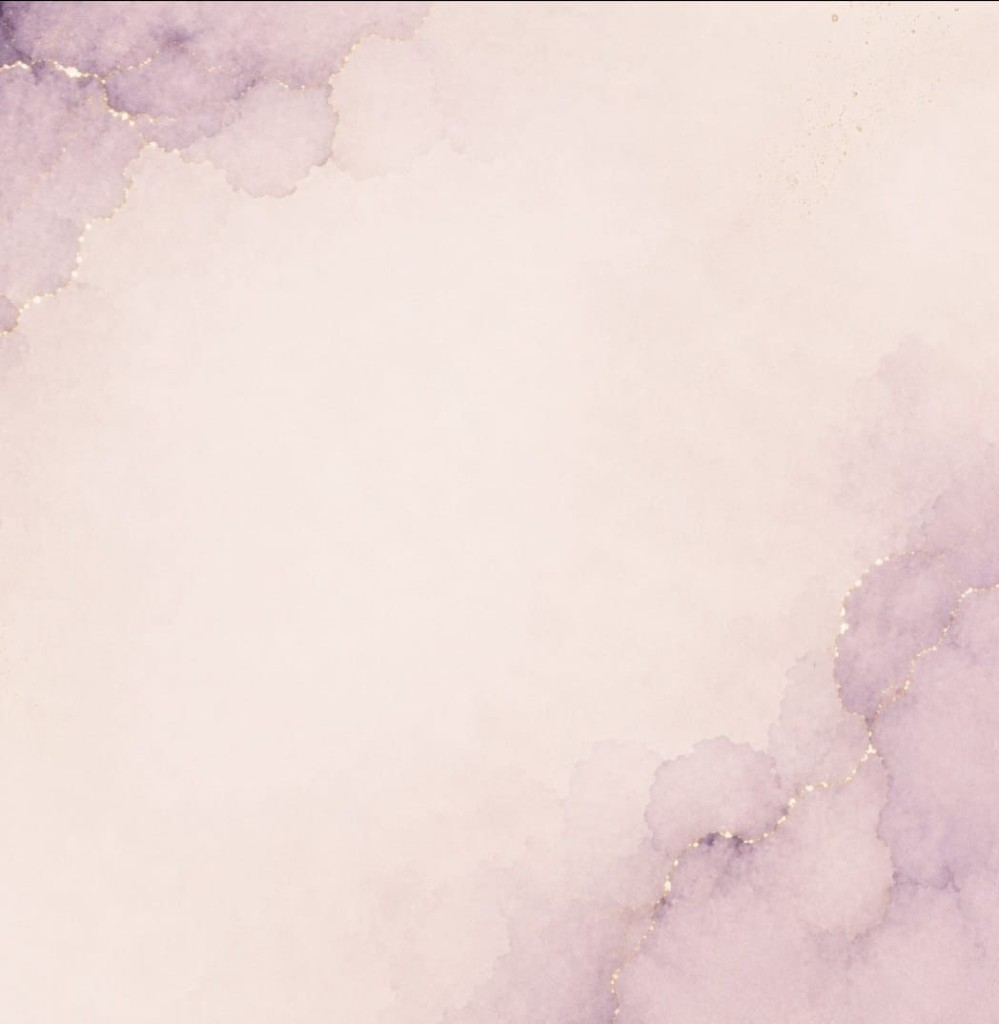
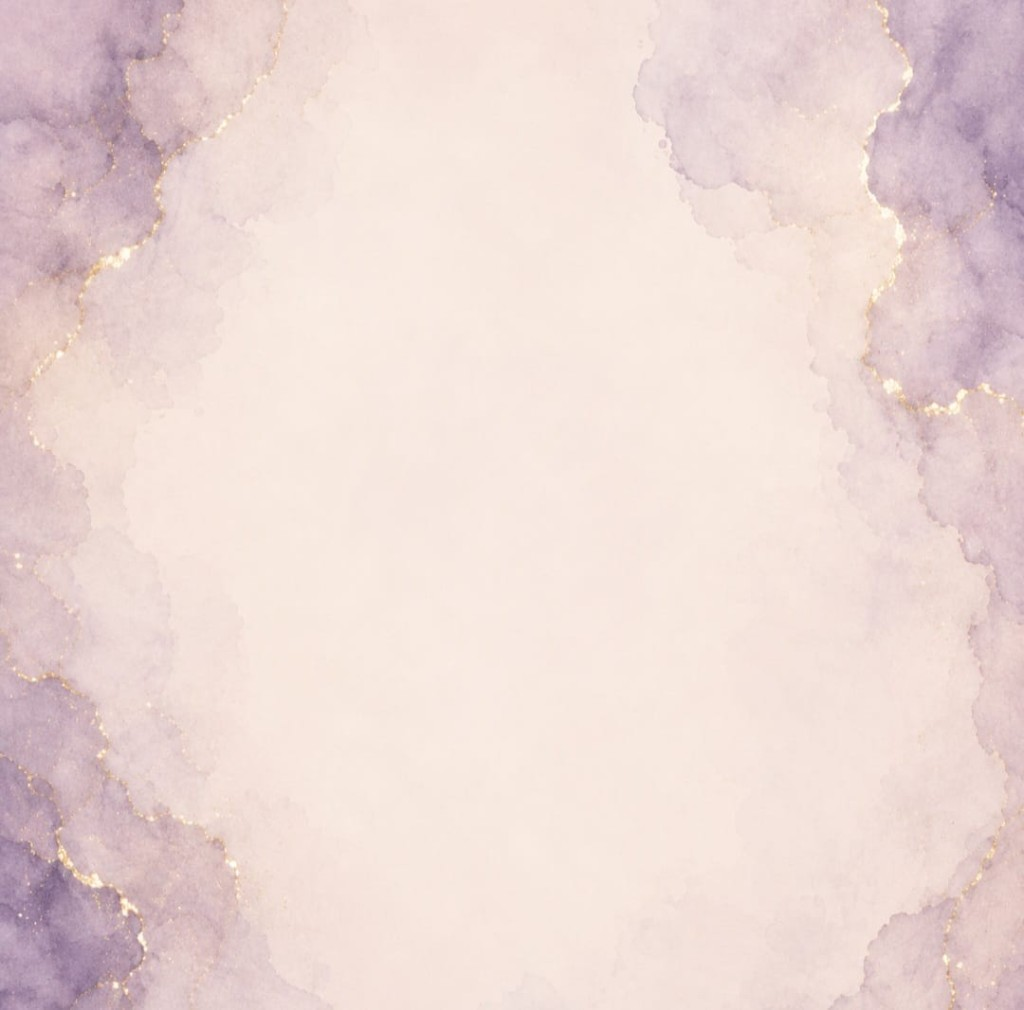
Remplace le fond aquarelle par la nouvelle version lavande-or.
Mise à jour de l'image de fond sur toutes les pages et bump du cache CSS.

diff --git a/index.html b/index.html
@@ -10,7 +10,7 @@
       href="https://fonts.googleapis.com/css2?family=Assistant:wght@300;400;500;600;700&family=Cinzel:wght@400;500;600;700&family=Cormorant+Garamond:ital,wght@0,300;0,400;1,300;1,400&family=Frank+Ruhl+Libre:wght@300;400;500&display=swap"
       rel="stylesheet"
     />
-    <link rel="stylesheet" href="styles.css?v=alone-elsa-26" />
+    <link rel="stylesheet" href="styles.css?v=alone-elsa-27" />
     <link rel="preload" as="image" href="assets/logo-aa.png" />
     <link rel="preload" as="image" href="assets/watercolor-lavender-gold-bg.png" />
   </head>
